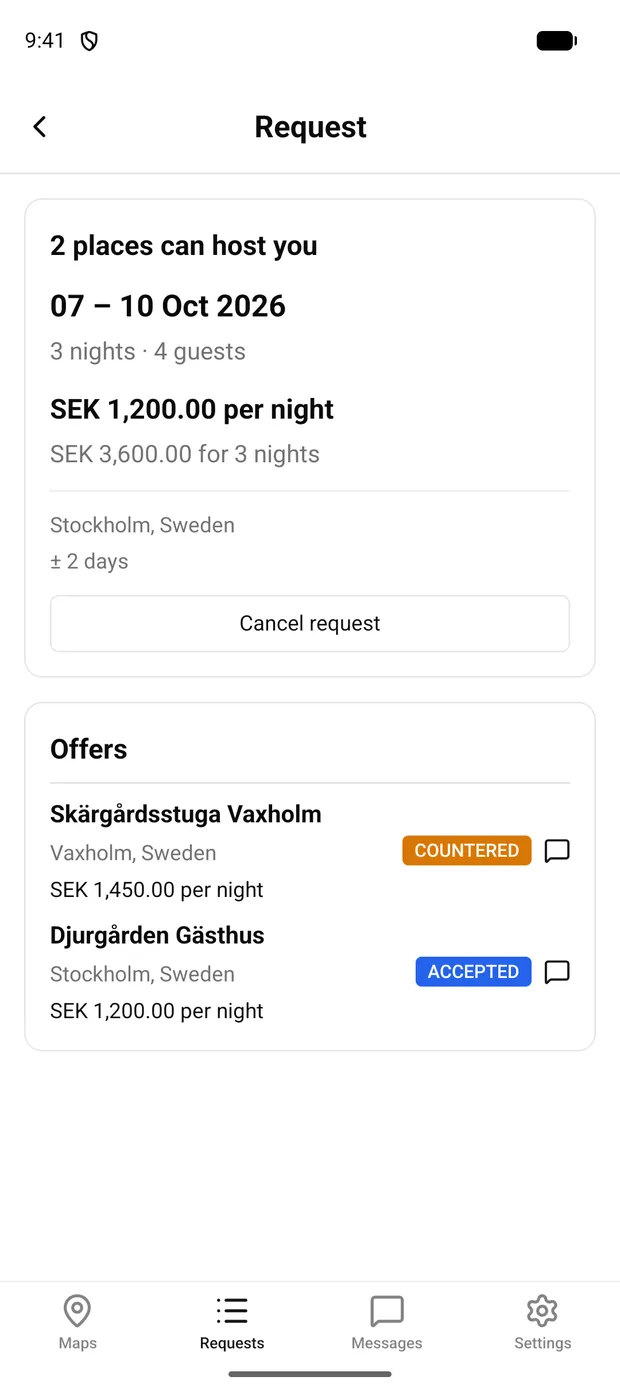
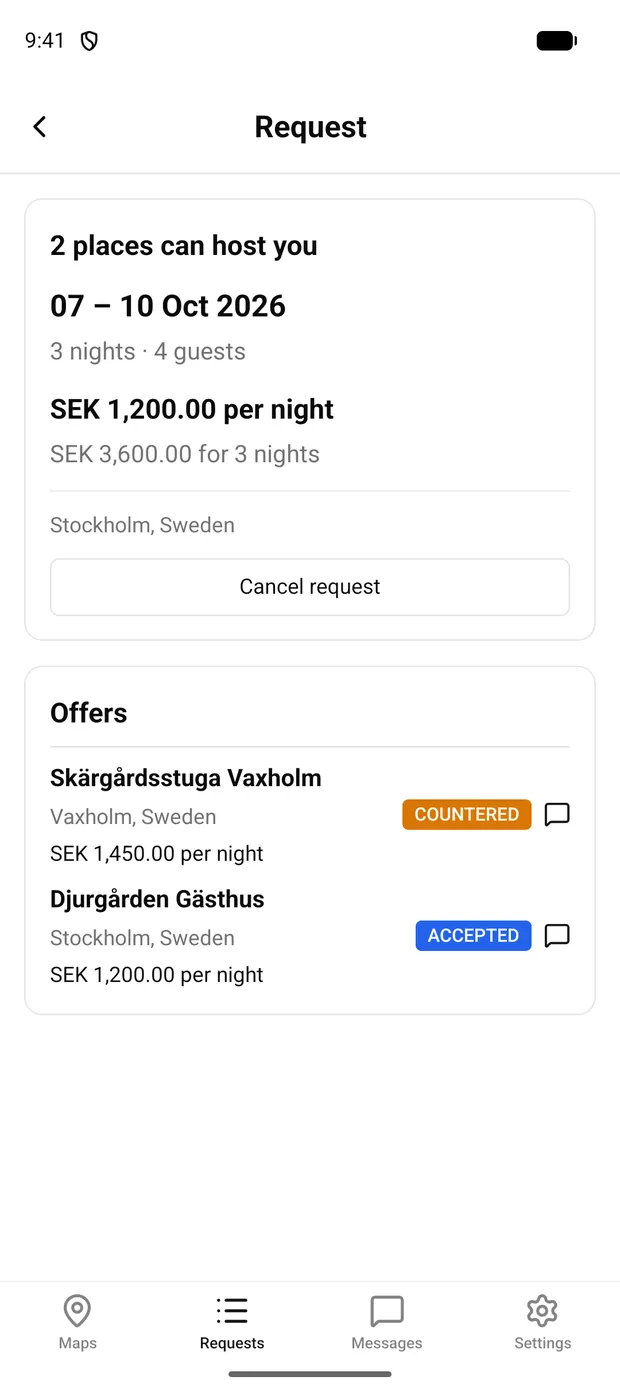
Recapture the request screen and drop the sentence that sold date flexibility

diff --git a/tools/build-screenshots.py b/tools/build-screenshots.py
@@ -34,7 +34,7 @@ JOBS = [
     (SHOTS / "02-new-request.png", "step-when", None, PHONE_WIDTH),
     (SHOTS / "03-request-offers.png", "step-answers", None, PHONE_WIDTH),
     (SHOTS / "04-place-detail.png", "step-book", None, PHONE_WIDTH),
-    (SHOTS / "03-request-offers.png", "offer-card", (56, 1370, 1024, 1800), 760),
+    (SHOTS / "03-request-offers.png", "offer-card", (56, 1307, 1024, 1737), 760),
     (
         ROOT.parent / "screenshots" / "verify" / "host" / "03-requests.png",
         "host-inbox",
